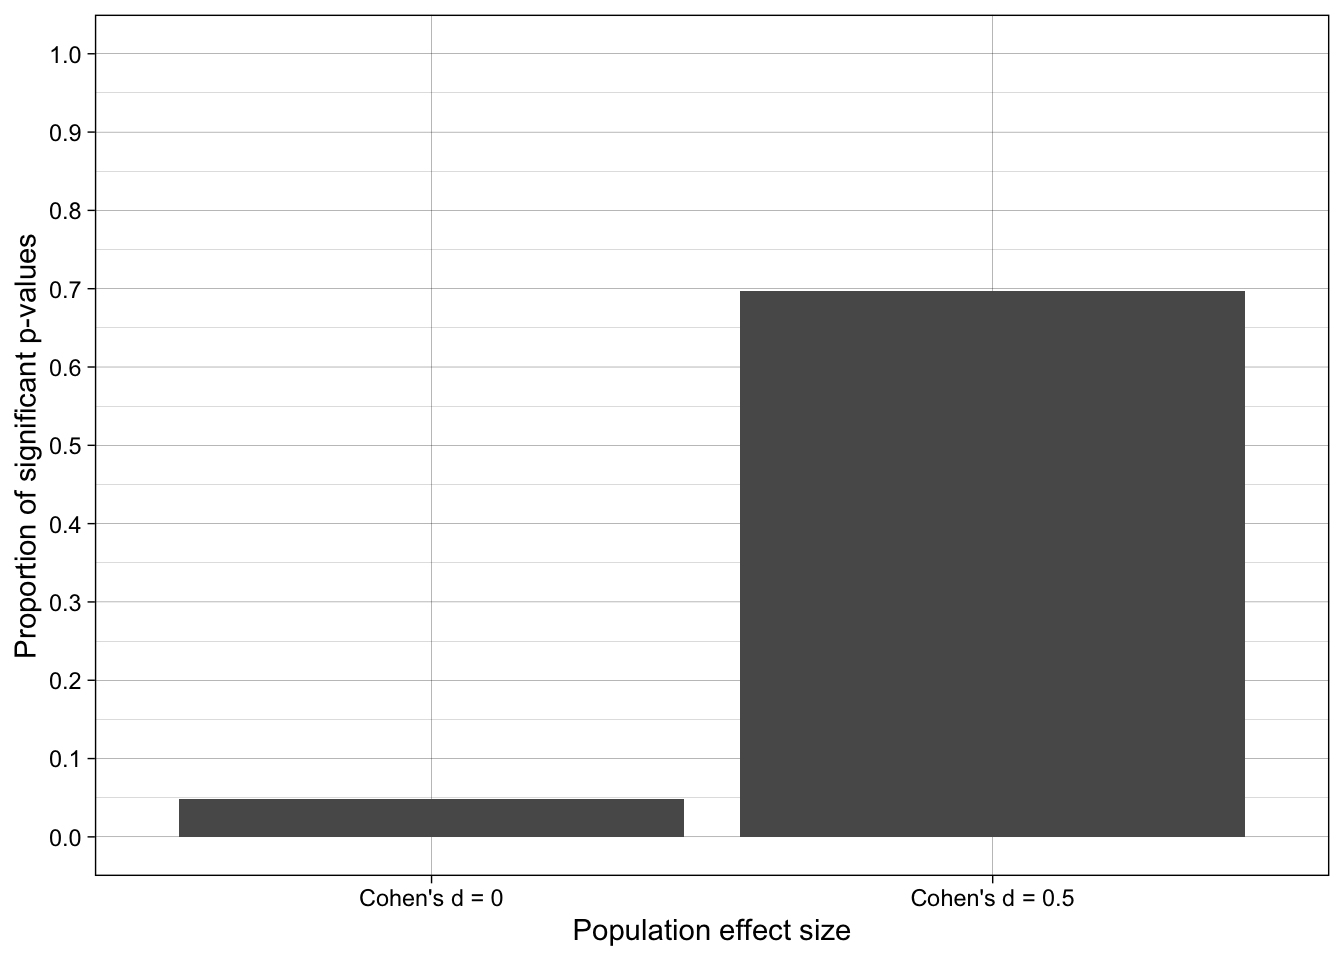
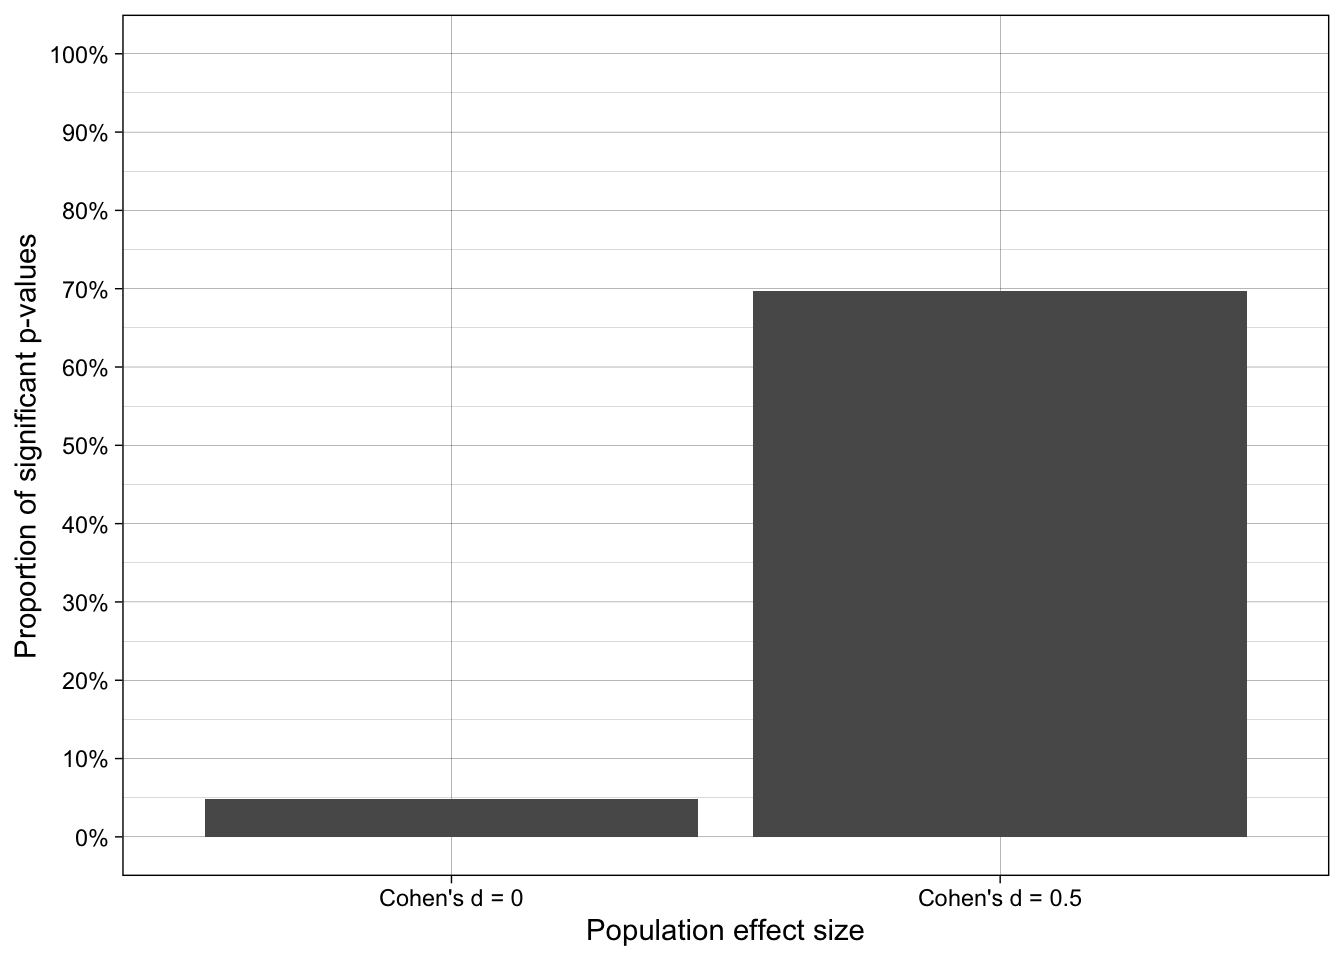
typos

diff --git a/content/posts/2025-04-27-tidy-monte-carlo-simulations/index.html b/content/posts/2025-04-27-tidy-monte-carlo-simulations/index.html
@@ -14,8 +14,6 @@ categories: ["R"]
 tags: ["Monte Carlo simulation", "tidy"]
 ---
 
-<script src="{{< blogdown/postref >}}index_files/kePrint/kePrint.js"></script>
-<link href="{{< blogdown/postref >}}index_files/lightable/lightable.css" rel="stylesheet" />
 
 
 <p>Simulation studies are extremely useful for understanding how statistical methods work, what happens when you violate their assumptions, for calculating statistical power, for understanding the consequences of p-hacking, and many other things. However, they can also be somewhat inaccessible or have a steep learning curve. In order to make them more accessible for people already familiar with {tidyverse} packages such as {dplyr} and {tidyr} and the concept of Tidy Data, I spent some time constructing a general workflow for simulations within a tidy workflow using {purrr}.</p>
@@ -54,8 +52,8 @@ generate_data &lt;- function(n_per_condition,
   return(data_combined)
 }</code></pre>
 </div>
-<div id="define-analsyis-function" class="section level1">
-<h1>Define analsyis function</h1>
+<div id="define-analysis-function" class="section level1">
+<h1>Define analysis function</h1>
 <p>Apply an independent Student’s t-test to the data and extract the <em>p</em>-value as a column in a tibble.</p>
 <pre class="r"><code>analyze &lt;- function(data) {
 
@@ -103,7 +101,7 @@ simulation &lt;- experiment_parameters |&gt;
 </div>
 <div id="run-results-across-iterations" class="section level1">
 <h1>Run results across iterations</h1>
-<p>Unnest the nested data in the results column and then, for each of the experiment conditions, summarize the proportion of significant <em>p</em>-values iterations. Print a table and plot of the results.</p>
+<p>Unnest the nested data in the results column and then, for each of the experiment conditions, summarize the proportion of significant <em>p</em>-values iterations. Print a plot of the results.</p>
 <pre class="r"><code># summarize across iterations
 simulation_summary &lt;- simulation |&gt;
   # unnest results
@@ -114,46 +112,12 @@ simulation_summary &lt;- simulation |&gt;
   mutate(significant = p &lt; .05) |&gt;
   summarize(proportion_of_significant_p_values = mean(significant))
 
-# table of results
-simulation_summary |&gt;
-  mutate_if(is.numeric, janitor::round_half_up, digits = 2) |&gt;
-  kable() |&gt;
-  kable_classic(full_width = FALSE)</code></pre>
-<table class=" lightable-classic" style="font-family: &quot;Arial Narrow&quot;, &quot;Source Sans Pro&quot;, sans-serif; width: auto !important; margin-left: auto; margin-right: auto;">
-<thead>
-<tr>
-<th style="text-align:left;">
-population_effect_size
-</th>
-<th style="text-align:right;">
-proportion_of_significant_p_values
-</th>
-</tr>
-</thead>
-<tbody>
-<tr>
-<td style="text-align:left;">
-Cohen’s d = 0
-</td>
-<td style="text-align:right;">
-0.05
-</td>
-</tr>
-<tr>
-<td style="text-align:left;">
-Cohen’s d = 0.5
-</td>
-<td style="text-align:right;">
-0.70
-</td>
-</tr>
-</tbody>
-</table>
-<pre class="r"><code># plot results
+# plot results
 ggplot(simulation_summary, aes(population_effect_size, proportion_of_significant_p_values)) +
   geom_col() +
   theme_linedraw() +
   scale_y_continuous(breaks = breaks_pretty(n = 10),
+                     labels = label_percent(),
                      limits = c(0,1),
                      name = &quot;Proportion of significant p-values&quot;) +
   scale_x_discrete(name = &quot;Population effect size&quot;)</code></pre>
